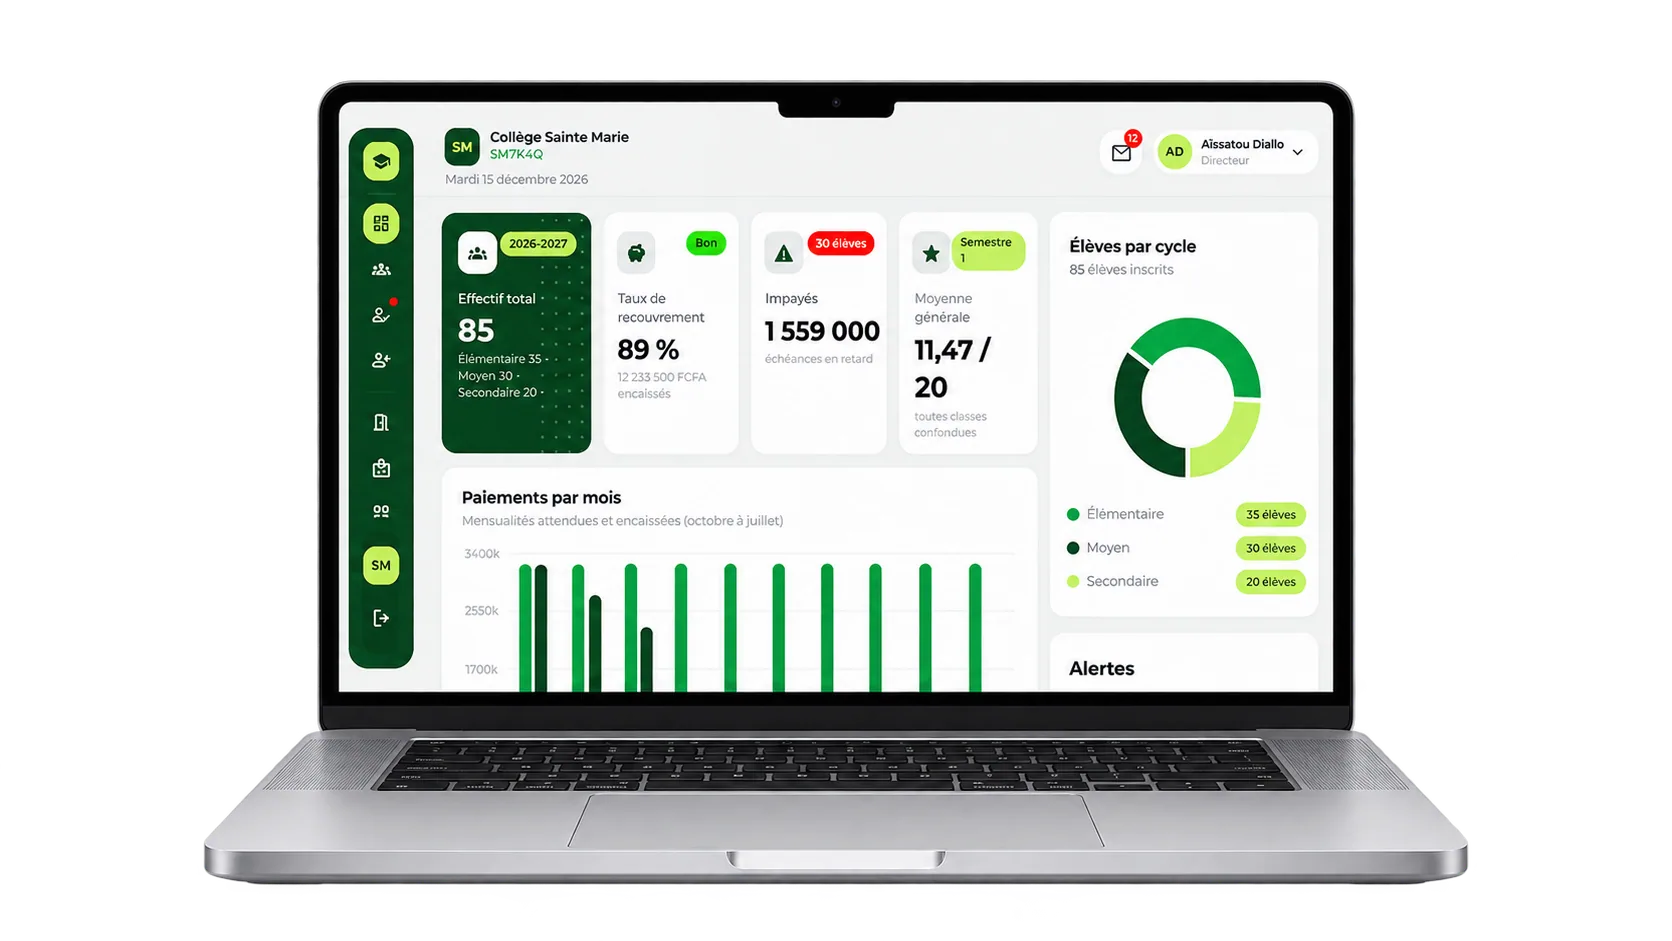
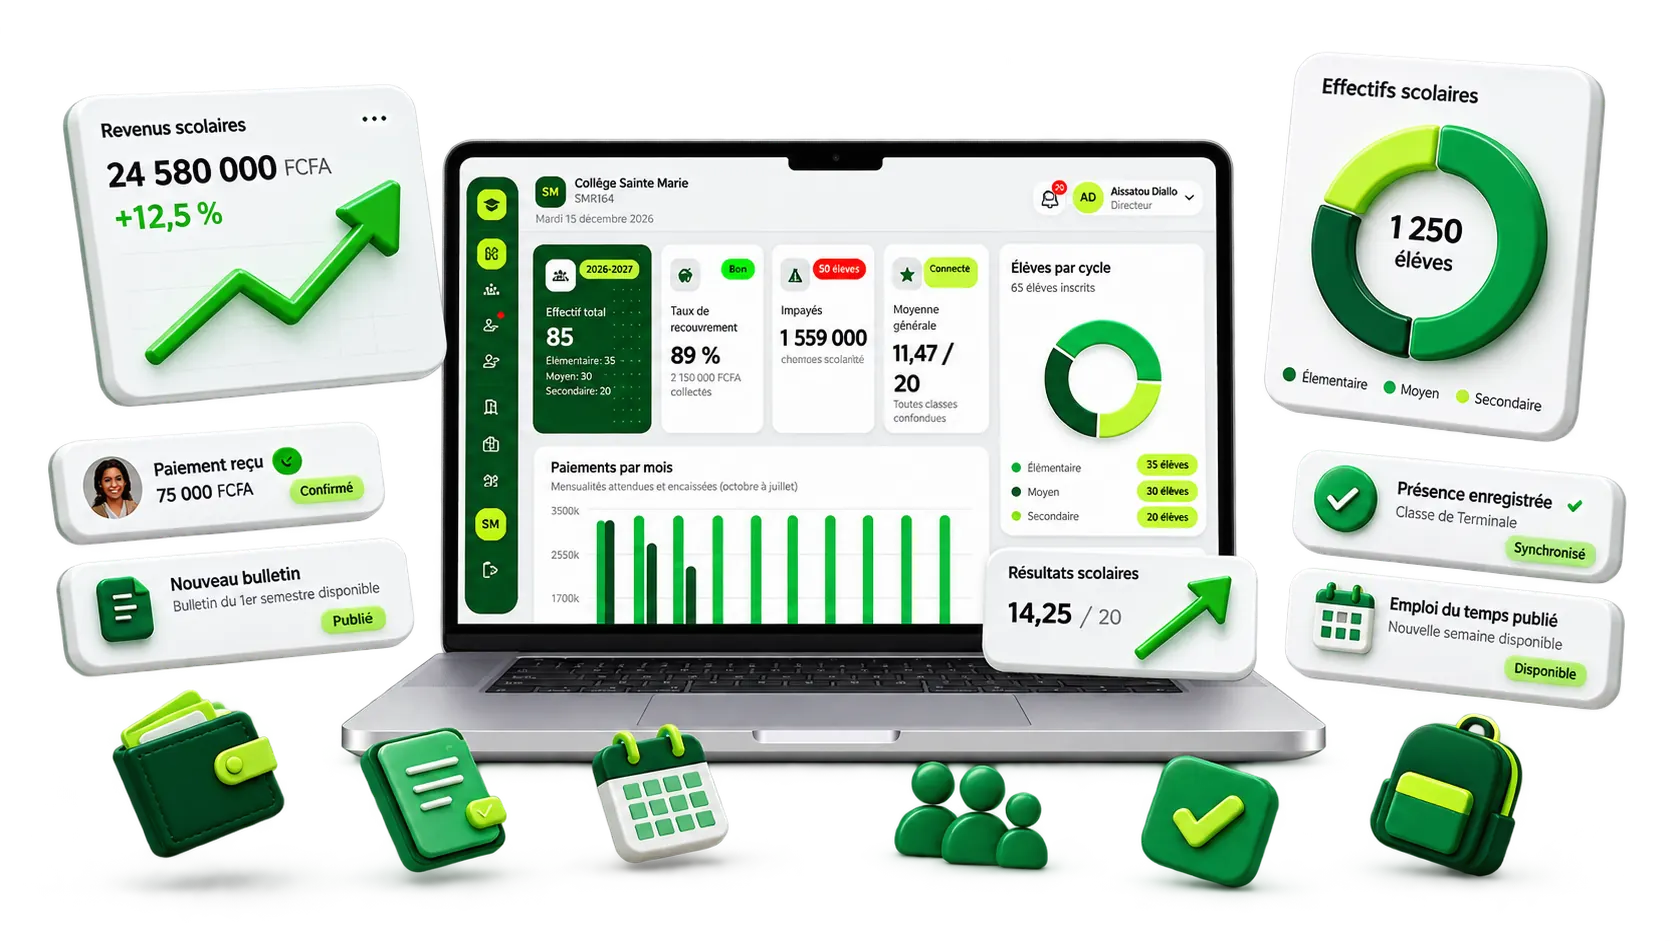
Réduire l'espacement entre le chiffre et le légende des statistiques du héros (leading-none sur le compteur)
- Counter.tsx : interligne compressée (leading-none / sm:leading-none) sous la grande valeur pour rapprocher le nombre du libellé en dessous sur ordinateur (ex. 2,4M / FCFA encaissés)
- Autres modifications déjà présentes dans le working tree (index.html, landing.ts, AboutSection.tsx, AboutPage.tsx, images, scripts et captures shots-tmp)

diff --git a/frontend/src/pages/public/AboutPage.tsx b/frontend/src/pages/public/AboutPage.tsx
@@ -2,9 +2,8 @@
 import { PageHero } from "@/components/layout/PageHero";
 import { Reveal } from "@/components/ui/Reveal";
 import { pageHeroes } from "@/data/pageHeroes";
-import { aboutValues, aboutStats } from "@/data/landing";
+import { aboutValues } from "@/data/landing";
 import { CtaSection } from "@/features/landing/CtaSection";
-import { Counter } from "@/components/ui/Counter";
 import { usePageMeta } from "@/hooks/usePageMeta";
 
 // Composant principal de la page.
@@ -87,31 +86,33 @@ export default function AboutPage() {
               </h2>
               <div className="mt-8 space-y-4 text-lg leading-relaxed text-white/85">
                 <p>
-                  D'ici 2030, nous imaginons des écoles privées sénégalaises qui consacrent <mark className="rounded bg-lime px-1 font-semibold text-forest">moins de temps à la complexité administrative</mark> et disposent d'<mark className="rounded bg-lime px-1 font-semibold text-forest">outils simples</mark> pour organiser leur quotidien, suivre leurs élèves et coordonner leurs équipes, avec Classora comme <mark className="rounded bg-lime px-1 font-semibold text-forest">système nerveux</mark> centralisant la <mark className="rounded bg-lime px-1 font-semibold text-forest">vie administrative, pédagogique et financière</mark> de l'établissement. Cette plateforme s'adapte à chaque cycle, de l'instituteur titulaire à l'élémentaire aux professeurs spécialisés au secondaire, sans imposer une standardisation excessive, mais en offrant un <mark className="rounded bg-lime px-1 font-semibold text-forest">socle commun fiable</mark> sur lequel chaque école construit sa propre organisation.
+                  D'ici 2030, nous imaginons des écoles privées sénégalaises qui consacrent <span className="font-semibold text-lime">moins de temps à la complexité administrative</span> et disposent d'<span className="font-semibold text-lime">outils simples</span> pour organiser leur quotidien, suivre leurs élèves et coordonner leurs équipes, avec Classora comme <span className="font-semibold text-lime">système nerveux</span> centralisant la <span className="font-semibold text-lime">vie administrative, pédagogique et financière</span> de l'établissement. Cette plateforme s'adapte à chaque cycle, de l'instituteur titulaire à l'élémentaire aux professeurs spécialisés au secondaire, sans imposer une standardisation excessive, mais en offrant un <span className="font-semibold text-lime">socle commun fiable</span> sur lequel chaque école construit sa propre organisation.
                 </p>
                 <p>
-                  Elle transforme aussi la relation aux familles, grâce à des <mark className="rounded bg-lime px-1 font-semibold text-forest">paiements mobiles fluides et sécurisés</mark>, un <mark className="rounded bg-lime px-1 font-semibold text-forest">accès transparent aux bulletins et aux échéances</mark>, et une communication directe avec les enseignants, tout en équipant les directions de <mark className="rounded bg-lime px-1 font-semibold text-forest">tableaux de bord financiers en temps réel</mark>, d'alertes automatiques sur les impayés et de projections de trésorerie, pour faire de la gestion un <mark className="rounded bg-lime px-1 font-semibold text-forest">levier stratégique</mark> plutôt qu'une charge réactive.
+                  Elle transforme aussi la relation aux familles, grâce à des <span className="font-semibold text-lime">paiements mobiles fluides et sécurisés</span>, un <span className="font-semibold text-lime">accès transparent aux bulletins et aux échéances</span>, et une communication directe avec les enseignants, tout en équipant les directions de <span className="font-semibold text-lime">tableaux de bord financiers en temps réel</span>, d'alertes automatiques sur les impayés et de projections de trésorerie, pour faire de la gestion un <span className="font-semibold text-lime">levier stratégique</span> plutôt qu'une charge réactive.
                 </p>
               </div>
             </header>
           </Reveal>
 
           <Reveal delay={200}>
-            <blockquote className="mt-16 text-center">
-              <p className="text-lg font-semibold text-white/90 italic">
-                "<span className="text-lime">2030</span> n'est pas une ligne d'arrivée. C'est une vision qui nous pousse à aller toujours plus loin. Chaque évolution de Classora nous en rapproche."
-              </p>
-            </blockquote>
+            <img
+              src="/images/carte-senegal-connectee.webp"
+              alt="Carte du Sénégal en 3D : les établissements scolaires connectés au réseau Classora"
+              width={1672}
+              height={941}
+              loading="lazy"
+              decoding="async"
+              className="mx-auto mt-12 block h-auto w-full max-w-4xl"
+            />
           </Reveal>
 
           <Reveal delay={300}>
-            <div className="mt-12 grid sm:grid-cols-1 md:grid-cols-2 lg:grid-cols-3 gap-3">
-              {aboutStats.map((stat, i) => (
-                <Reveal key={stat.label} delay={i * 100}>
-                  <Counter value={stat.value} label={stat.label} delay={i * 200} />
-                </Reveal>
-              ))}
-            </div>
+            <blockquote className="mx-auto mt-10 max-w-4xl text-center">
+              <p className="text-xl font-semibold leading-relaxed text-white/90 italic sm:text-2xl">
+                "<span className="text-lime">2030</span> n'est pas une ligne d'arrivée. C'est une vision qui nous pousse à aller toujours plus loin. Chaque évolution de Classora nous en rapproche."
+              </p>
+            </blockquote>
           </Reveal>
         </div>
       </section>

diff --git a/frontend/src/data/landing.ts b/frontend/src/data/landing.ts
@@ -9,6 +9,7 @@ const hero4Img = "/images/hero-4.webp";
 const hero5Img = "/images/hero-5.webp";
 const hero6Img = "/images/hero-6.webp";
 const aboutImg = "/images/about-home.webp";
+const aboutNumeriqueImg = "/images/about-numerique.webp";
 const authImg = "/images/auth.webp";
 // Fond des pages d'authentification : AVIF (98 Ko) pour les navigateurs
 // modernes, WebP (135 Ko) en repli. L'ancien SVG pesait 6,6 Mo.
@@ -22,6 +23,7 @@ const enseignantsImg = "/images/feature-enseignants.webp";
 export const images = {
   hero: heroImg,
   about: aboutImg,
+  aboutTeam: aboutNumeriqueImg,
   auth: authImg,
   authBackground: authBackgroundImg,
   authBackgroundFallback: authBackgroundFallbackImg,
@@ -33,7 +35,7 @@ export interface HeroSlide {
 }
 
 export const heroSlides: HeroSlide[] = [
-  { src: hero1Img, alt: "Élève consultant son téléphone dans une salle de classe au Sénégal" },
+  { src: hero1Img, alt: "Tout ce qu'il faut pour piloter votre école" },
   { src: hero2Img, alt: "Deux enseignants souriants devant un ordinateur portable dans une salle de classe" },
   { src: hero3Img, alt: "Deux membres de l'équipe Classora dans un couloir d'école" },
   { src: hero4Img, alt: "Quatre élèves travaillant sur des ordinateurs à la bibliothèque" },

diff --git a/frontend/index.html b/frontend/index.html
@@ -32,14 +32,14 @@
       property="og:description"
       content="Inscriptions, bulletins automatiques, suivi des paiements et messagerie parents-enseignants : un seul outil pour diriger votre école privée, du CI à la Terminale."
     />
-    <meta property="og:image" content="https://classora-gsay.onrender.com/images/hero.jpg" />
+    <meta property="og:image" content="https://classora-gsay.onrender.com/images/hero-1.webp" />
     <meta name="twitter:card" content="summary_large_image" />
     <meta name="twitter:title" content="Classora — Gestion scolaire pour les écoles privées au Sénégal" />
     <meta
       name="twitter:description"
       content="Inscriptions, bulletins automatiques, suivi des paiements et messagerie parents-enseignants : un seul outil pour diriger votre école privée."
     />
-    <meta name="twitter:image" content="https://classora-gsay.onrender.com/images/hero.jpg" />
+    <meta name="twitter:image" content="https://classora-gsay.onrender.com/images/hero-1.webp" />
 
     <!-- Données structurées : informations factuelles uniquement (nom, URL,
          logo, contact déjà publiés sur le site). -->

diff --git a/frontend/src/features/landing/AboutSection.tsx b/frontend/src/features/landing/AboutSection.tsx
@@ -36,7 +36,7 @@ export function AboutSection() {
           <Reveal delay={120}>
             <div className="mt-10 grid gap-5 lg:grid-cols-[1fr_260px]">
               <div className="relative rounded-3xl bg-lime p-2 shadow-pop">
-                <img src={images.about} alt="Équipe pédagogique d'une école partenaire" className="aspect-[16/10] w-full rounded-[1.25rem] object-cover" loading="lazy" />
+                <img src={images.aboutTeam} alt="L'équipe Classora au service des écoles" className="aspect-[16/10] w-full rounded-[1.25rem] object-cover" loading="lazy" />
               </div>
               <div className="grid sm:grid-cols-1 md:grid-cols-2 lg:grid-cols-1 gap-3 rounded-3xl bg-lime p-2">
                 {aboutStats.map((s, i) => (

diff --git a/frontend/src/components/ui/Counter.tsx b/frontend/src/components/ui/Counter.tsx
@@ -146,7 +146,7 @@ export function Counter({
       <p
         ref={valueRef}
         className={cn(
-          "text-4xl font-extrabold tabular-nums tracking-tight sm:text-5xl",
+          "text-4xl font-extrabold tabular-nums tracking-tight leading-none sm:text-5xl sm:leading-none",
           valueClassName,
         )}
       >
